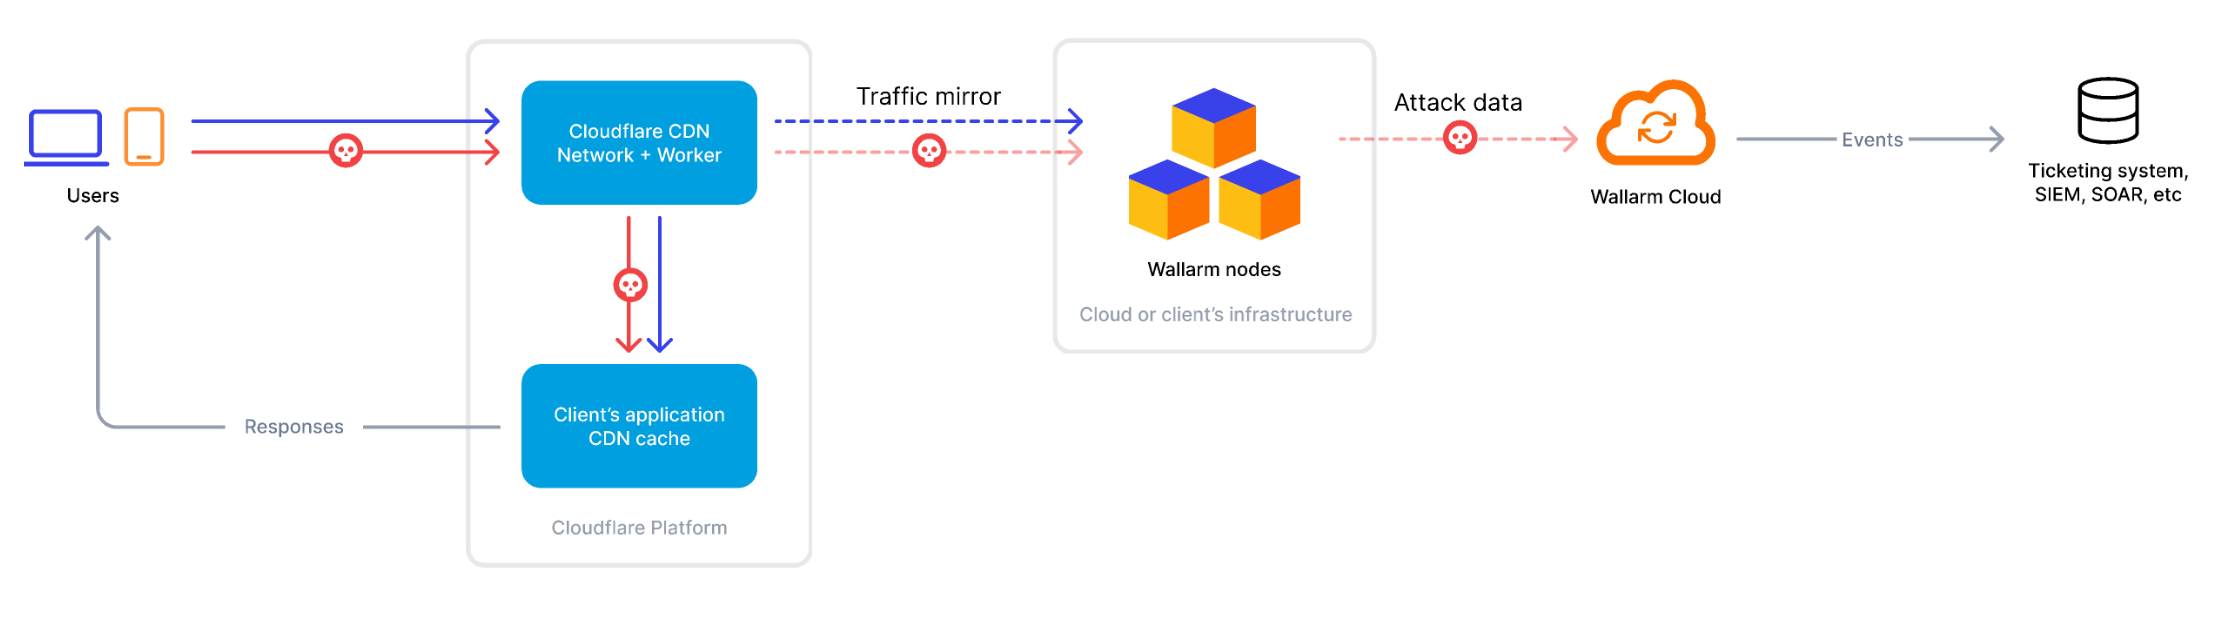
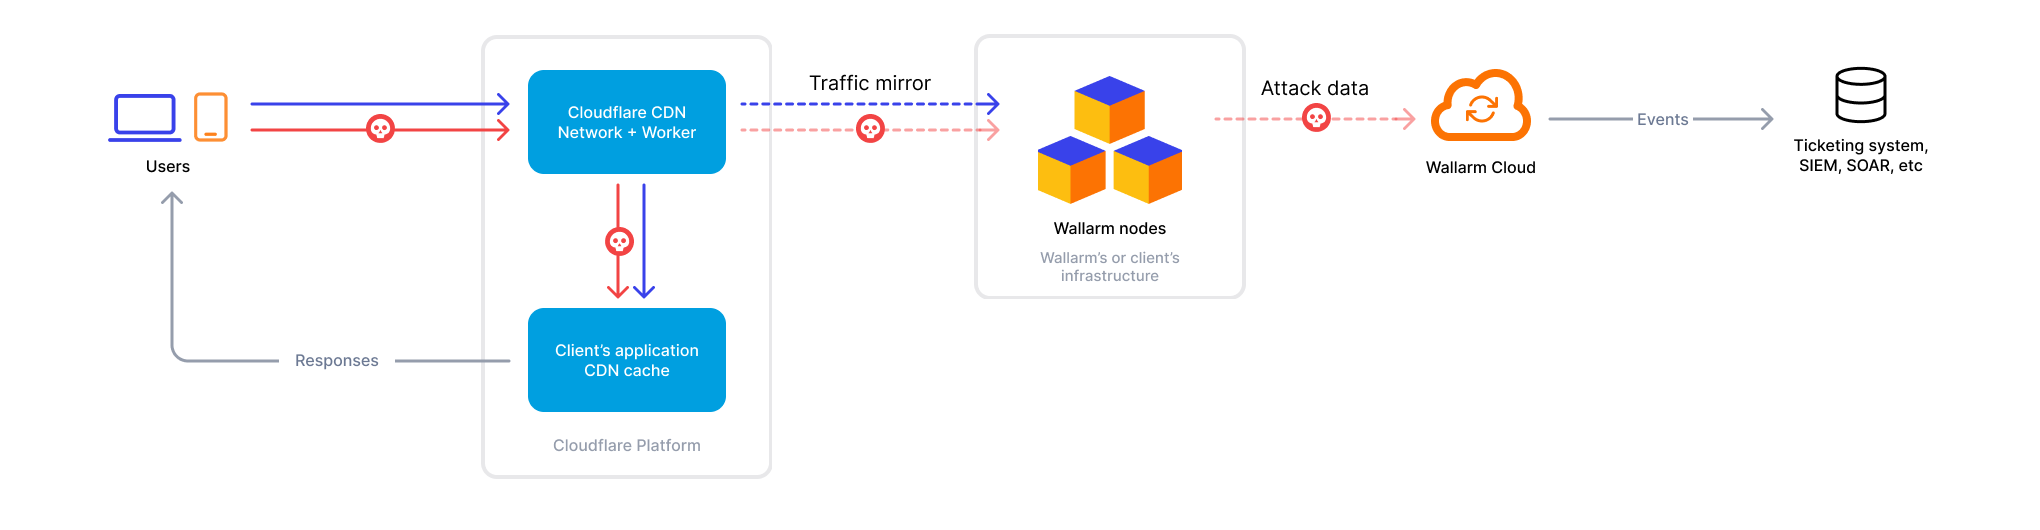
reflect edge connectors in the cloudflare docs

diff --git a/docs/latest/installation/cdn/cloudflare.md b/docs/latest/installation/cdn/cloudflare.md
@@ -1,13 +1,15 @@
 [ptrav-attack-docs]:                ../../attacks-vulns-list.md#path-traversal
-[attacks-in-ui-image]:              ../../images/admin-guides/test-attacks-quickstart-sqli-xss.png
+[attacks-in-ui-image]:              ../../images/admin-guides/test-attacks-quickstart.png
+[wallarm-hosted-connector-desc]:    ../connectors/overview.md#wallarm-edge-connectors
+[filtration-mode-docs]:             ../../admin-en/configure-wallarm-mode.md
 
-# Cloudflare
+# Wallarm Connector for Cloudflare
 
-[Cloudflare](https://www.cloudflare.com/) is a security and performance service which offers features designed to enhance the security, speed, and reliability of websites and internet applications, including CDN, WAF, DNS services and SSL/TLS encryption. This article provides instructions on configuring Wallarm and Cloudflare to route your entire domain or selected application's Cloudflare traffic to the Wallarm node for analysis and filtering.
+[Cloudflare](https://www.cloudflare.com/) is a security and performance service which offers features designed to enhance the security, speed, and reliability of websites and internet applications, including CDN, WAF, DNS services and SSL/TLS encryption. Wallarm can act as a connector to secure APIs running on Cloudflare.
 
-The solution involves deploying and configuring the Wallarm node externally and injecting custom code into Cloudflare's worker object. This enables traffic to be directed to the external Wallarm node for analysis and protection against potential threats. In the scenario, the Cloudflare itself serves as connector between your applications and Wallarm providing secure traffic analysis, risk mitigation, and overall security.
+The Wallarm filtering node is deployed externally and acts as a connector between Cloudflare and Wallarm. On the Cloudflare side, you only need to run an additional worker using the Wallarm-provided code to route traffic to the connector.
 
-<a name="cloudflare-modes"></a> The Cloudflare integration supports both [in-line](../inline/overview.md) and [out-of-band](../oob/overview.md) modes. Below diagrams show the traffic flow for both cases.
+<a name="cloudflare-modes"></a> The Cloudflare integration supports both [in-line](../inline/overview.md) and [out-of-band](../oob/overview.md) modes:
 
 === "In-line traffic flow"
 
@@ -21,14 +23,6 @@ The solution involves deploying and configuring the Wallarm node externally and 
 
 Among all supported [Wallarm deployment options](../supported-deployment-options.md), this solution is recommended in case when you provide access to your applications via Cloudflare.
 
-## Limitations
-
-The solution has certain limitations as it only works with incoming requests:
-
-* Vulnerability discovery using the [passive detection](../../about-wallarm/detecting-vulnerabilities.md#passive-detection) method does not function properly. The solution determines if an API is vulnerable or not based on server responses to malicious requests that are typical for the vulnerabilities it tests.
-* The [Wallarm API Discovery](../../api-discovery/overview.md) cannot explore API inventory based on your traffic, as the solution relies on response analysis.
-* The [protection against forced browsing](../../admin-en/configuration-guides/protecting-against-bruteforce.md) is not available since it requires response code analysis.
-
 ## Requirements
 
 To proceed with the deployment, ensure that you meet the following requirements:
@@ -36,124 +30,103 @@ To proceed with the deployment, ensure that you meet the following requirements:
 * Understanding of Cloudflare technologies.
 * APIs or traffic running through Cloudflare.
 
-## Deployment
+### 1. Deploy a Wallarm connector
 
-To secure with Wallarm your applications that are delivered via Cloudflare:
+You can deploy a Wallarm connector node either hosted by Wallarm or in your own infrastructure, depending on the level of control you require.
 
-1. Request Wallarm support to activate Cloudflare integration.
-1. Set Cloudflare worker and routes to route traffic to Wallarm for analysis.
+=== "Wallarm Edge connector node"
+    --8<-- "../include/waf/installation/security-edge/add-connector.md"
+=== "Self-hosted connector node"
+    The current self-hosted node deployment has limitations. Full response analysis is not yet supported, which is why:
 
-### 1. Request Wallarm support to activate Cloudflare integration
+    * Vulnerability discovery using the [passive detection](../../about-wallarm/detecting-vulnerabilities.md#passive-detection) method does not function properly. The solution determines if an API is vulnerable or not based on server responses to malicious requests that are typical for the vulnerabilities it tests.
+    * The [Wallarm API Discovery](../../api-discovery/overview.md) cannot explore API inventory based on your traffic, as the solution relies on response analysis.
+    * The [protection against forced browsing](../../admin-en/configuration-guides/protecting-against-bruteforce.md) is not available since it requires response code analysis.
 
-Contact [support@wallarm.com](mailto:support@wallarm.com) to request the activation of Cloudflare integration and obtain the `<FILTERING_NODE_URL>`. Consider the following:
+    To deploy a self-hosted connector node:
 
-* As the traffic flow [can operate](#cloudflare-modes) both in-line and out-of-band (OOB), you need to discuss with the support which option suits you.
+    1. Allocate an instance for deploying the node.
+    1. Choose one of the supported Wallarm node deployment solutions or artifacts for the [in-line](../supported-deployment-options.md#in-line) or [out-of-band](../oob/overview.md) deployment and follow the provided deployment instructions.
+    1. Configure the deployed node using the following template:
 
-* Wallarm support team will deploy a filtering node in a trustworthy cloud environment and fully configure it for processing your traffic redirected from Cloudflare.
+        ```
+        server {
+            listen 80;
 
-    Alternatively, you can install node in your own infrastructure (see options for [in-line](../../installation/supported-deployment-options.md#in-line) and [out-of band (OOB)](../../installation/supported-deployment-options.md#out-of-band) installation) and request Wallarm support to help you to prepare the node for integration with Cloudflare.
+            server_name _;
 
-### 2. Set Cloudflare worker and routes
+            access_log off;
+            wallarm_mode off;
 
-In Cloudflare, do the following:
-
-1. Select domain to be routed to Wallarm.
-1. For this domain, create worker with the following code:
-
-    ```
-    // Configuration
-    const wallarm_node = "https://<FILTERING_NODE_URL>"; // Replace with your Wallarm node URL
-    const wallarm_mode = "async"; //"async" or "inline" - choose based on your needs
-
-    addEventListener("fetch", event => {
-    event.passThroughOnException();
-    event.respondWith(handleRequest(event));
-    });
-
-    async function handleRequest(event) {
-
-    if (event.request._handled) return;
-    event.request._handled = true;
-    
-    let request = event.request;
-    request._handled = true;
-
-    // Clone the request to be able to read its body
-    let requestBody = await request.clone().text();
-
-    const url = new URL(request.url);
-
-    // Check if the request URL ends with a static extension
-    if (isStatic(url)) {
-        // If it is a static request, proceed with the original request without sending it to the backend
-        return await fetch(request);
-    }
-
-    if (wallarm_mode === "async") {
-        // In async mode, send the request to the backend asynchronously and proceed with the original request
-        sendToBackend(request, requestBody, true);
-    } else if (wallarm_mode === "inline") {
-        // In inline mode, wait for the backend response to decide on blocking the request
-        let node_response = await sendToBackend(request, requestBody, false);
-    
-        // If the backend server responds with 403, block the request
-        if(node_response.status === 403) {
-        return new Response("Request blocked.", { status: 403 });
+            location / {
+                proxy_set_header Host $http_x_forwarded_host;
+                proxy_pass http://unix:/tmp/wallarm-nginx.sock;
+            }
         }
-    }
-    // Proceed with the original request if not blocked
-    return await fetch(request);
-    
-    }
 
-    async function sendToBackend(request, body, sendasync) {
+        server {
+            listen 443 ssl;
 
-    const url = new URL(request.url);
+            server_name yourdomain-for-wallarm-node.tld;
 
-    let headers = {}
-    request.headers.forEach((value, key) => {
-        headers[key] = value
-    })
+            ### SSL configuration here
 
-    headers["X-FORWARDED-HOST"] = url.host;
+            access_log off;
+            wallarm_mode off;
 
-    // Create the options object for the fetch call, excluding the body initially
-    const fetchOptions = {
-        method: request.method,
-        headers: headers
-    };
-    
-    // Only add the body to the fetch options for methods other than GET and HEAD
-    if (request.method !== "GET" && request.method !== "HEAD") {
-        fetchOptions.body = body;
-    }
+            location / {
+                proxy_set_header Host $http_x_forwarded_host;
+                proxy_pass http://unix:/tmp/wallarm-nginx.sock;
+            }
+        }
 
-    if(sendasync){
-        // Perform the fetch without waiting for the response
-        fetch(wallarm_node + url.pathname + url.search, fetchOptions).then(response => {
-        // Optionally handle the async response
-        console.log("Async request sent to backend");
-        }).catch(error => {
-        console.error("Error sending async request to backend:", error);
-        });
-    }else{
-        return await fetch(wallarm_node + url.pathname + url.search, fetchOptions);
-    }
-    }
 
-    const staticExtensions = [".css", ".js",
-    ".jpg", ".jpeg", ".png", ".gif", ".svg", ".ico",
-    ".woff", ".woff2", ".eot", ".ttf", ".otf", ".webp", ".avif", ".mp4", ".webm"];
-    function isStatic(url) {
-    return staticExtensions.some(ext => url.pathname.endsWith(ext));
-    }
-    ```
+        server {
+            listen unix:/tmp/wallarm-nginx.sock;
+            
+            server_name _;
+            
+            wallarm_mode monitoring;
+            #wallarm_mode block;
 
-1. To set paths of your domain that you want to route to Wallarm, create the route object and link it to your worker. Within the route object, list one or several paths, for example, add `*.example.com/*` to route all domain's paths.
+            real_ip_header X-REAL-IP;
+            set_real_ip_from unix:;
+
+            location / {
+                echo_read_request_body;
+            }
+        }
+        ```
+
+        Please ensure to pay attention to the following configurations:
+
+        * TLS/SSL certificates for HTTPS traffic: To enable the Wallarm node to handle secure HTTPS traffic, configure the TLS/SSL certificates accordingly. The specific configuration will depend on the chosen deployment method. For example, if you are using NGINX, you can refer to [its article](https://docs.nginx.com/nginx/admin-guide/security-controls/terminating-ssl-http/) for guidance.
+        * [Wallarm operation mode](../../admin-en/configure-wallarm-mode.md) configuration.
+
+    1. Once the deployment is complete, make a note of the node instance IP as you will need it later to set the address for incoming request forwarding.
+
+### 2. Obtain and deploy the Wallarm worker code
+
+To run a Cloudflare worker routing traffic to the Wallarm connector:
+
+1. Contact [support@wallarm.com](mailto:support@wallarm.com) to get the Wallarm worker code for your connector deployment (Wallarm- or self-hosted).
+1. [Create a Cloudflare worker](https://developers.cloudflare.com/workers/get-started/dashboard/) using the provided code.
+1. Set the address of your [Wallarm connector instance](#1-deploy-a-wallarm-connector) in the `wallarm_node` parameter.
+1. If using [out-of-band](../oob/overview.md) mode, set the `wallarm_mode` parameter to `async`.
+
+    Based on the selected mode, the worker controls whether traffic goes through the connector inline or if original traffic proceeds while a copy is inspected for malicious activities.
+
+    ![Cloudflare worker](../../images/waf-installation/gateways/cloudflare/worker-deploy.png)
+1. In **Website** → your domain, go to **Workers Routes** → **Add route**:
+
+    * In **Route**, specify the paths to be routed to Wallarm for analysis (e.g., `*.example.com/*` for all paths).
+    * In **Worker**, select the Wallarm worker you created.
+
+    ![Cloudflare add route](../../images/waf-installation/gateways/cloudflare/add-route.png)
 
 ## Testing
 
-To test the functionality of the deployed policy, follow these steps:
+To test the functionality of the deployed solution, follow these steps:
 
 1. Send the request with the test [Path Traversal][ptrav-attack-docs] attack to your API:
 
@@ -164,8 +137,8 @@ To test the functionality of the deployed policy, follow these steps:
     
     ![Attacks in the interface][attacks-in-ui-image]
 
-    If the Wallarm node mode is set to blocking, the request will also be blocked.
+    If the Wallarm node mode is set to blocking and the traffic flows in-line, the request will also be blocked.
 
-## Need assistance?
+## Troubleshooting
 
-If you encounter any issues or require assistance with the described deployment of Wallarm in conjunction with Cloudflare, you can reach out to the [Wallarm support](mailto:support@wallarm.com) team. They are available to provide guidance and help resolve any problems you may face during the implementation process.
+--8<-- "../include/waf/installation/security-edge/connector-troubleshooting.md"
